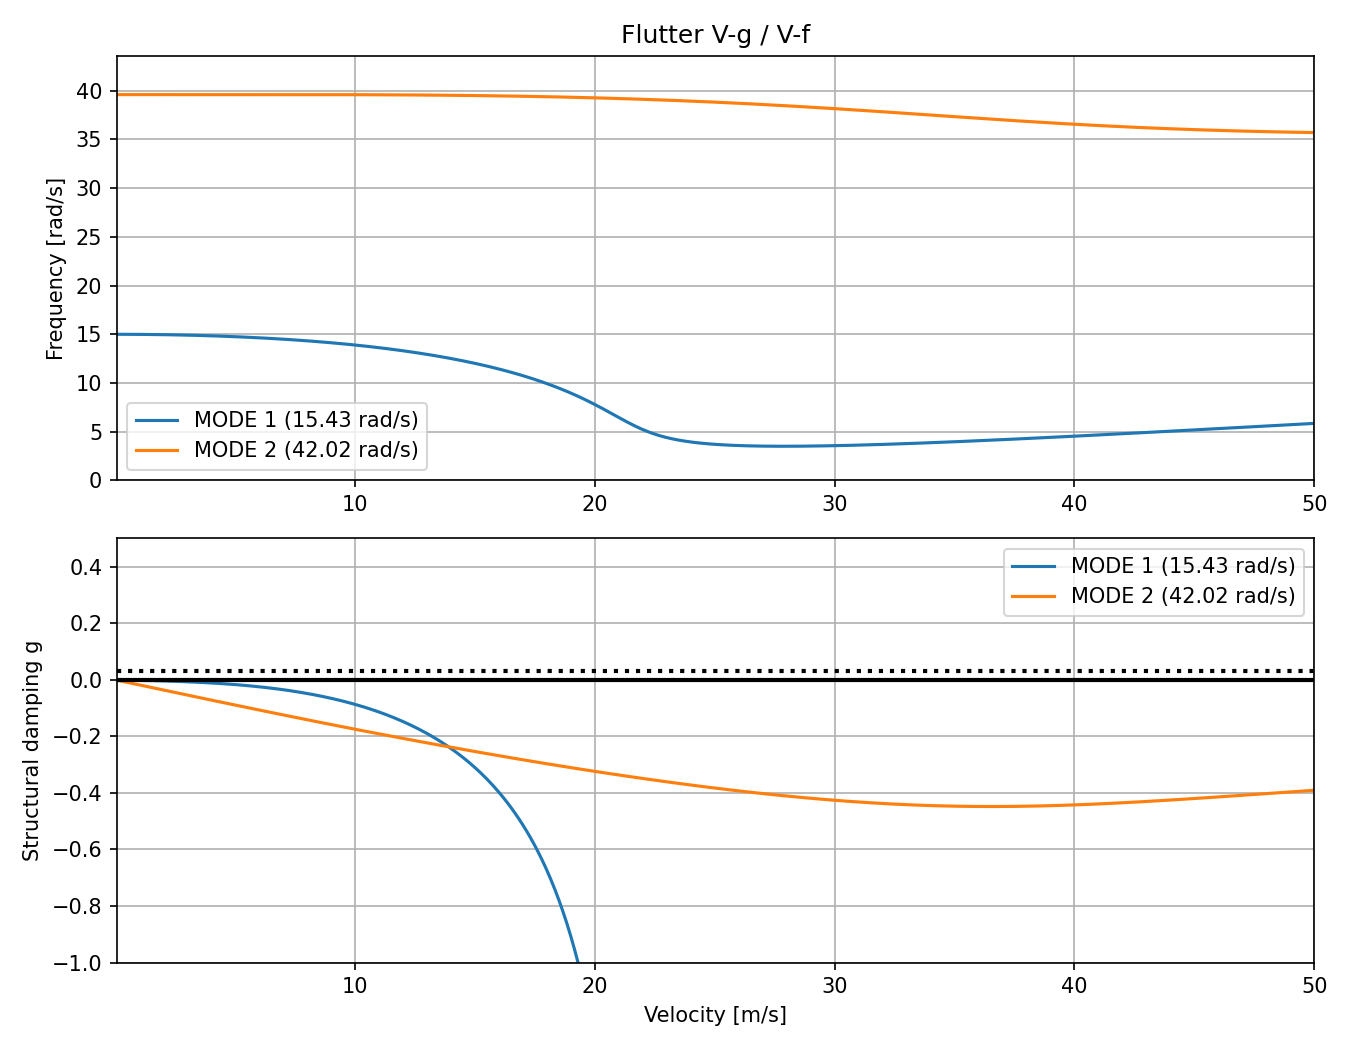
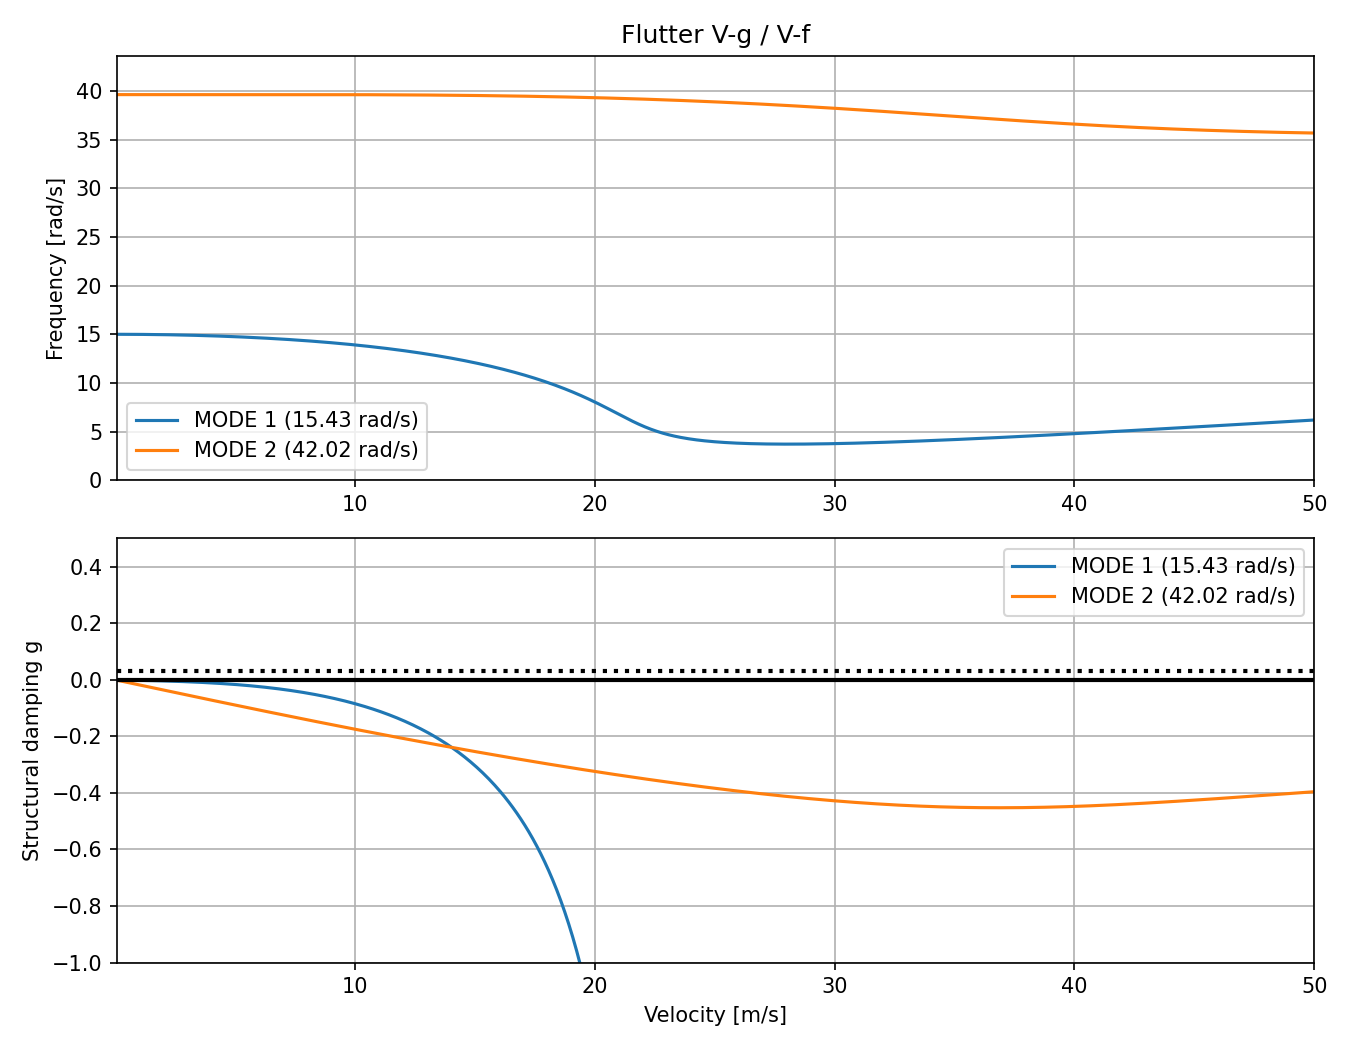
Use R. T. Jones C(k) coefficients 0.0455 / 0.300 (#9)
theo_c used poles at 0.041 / 0.32, a worse fit to the exact Theodorsen
function (max |dC| 0.021 vs 0.0145) that put the flutter speed 0.9-1.4 %
low. With the NACA 681 values the Hodges & Pierce case gives
V_F/(b w_a) = 2.1704 (exact C(k): 2.1839) and the shipped defaults
19.558 m/s (exact: 19.575).

Regression values, README, theory document and figures updated.

Closes #9

diff --git a/tests/test_flutter.py b/tests/test_flutter.py
@@ -127,7 +127,7 @@ def test_compute_flutter_keeps_modes_distinct():
 
 
 def test_compute_flutter_detects_flutter_speed():
-    """TUI default section: flutter at 19.3934 m/s, from an independent k-method (g = 0) solve."""
+    """TUI default section: flutter at 19.5582 m/s, from an independent k-method (g = 0) solve."""
     mass_kg = 10.0
     inertia_alpha_kg_m2 = 0.5
     b_m = 0.5
@@ -144,7 +144,7 @@ def test_compute_flutter_detects_flutter_speed():
     v1, v2 = velocity_range_m_s[j], velocity_range_m_s[j + 1]
     g1, g2 = g_arr_nd[1, j], g_arr_nd[1, j + 1]
     v_flutter_m_s = v1 - g1 * (v2 - v1) / (g2 - g1)
-    np.testing.assert_allclose(v_flutter_m_s, 19.3934, rtol=1e-4)
+    np.testing.assert_allclose(v_flutter_m_s, 19.5582, rtol=1e-4)
 
 
 def test_find_flutter_speed_interpolates_between_grid_points():
@@ -174,9 +174,9 @@ def test_compute_flutter_hodges_pierce_textbook_case():
     Aeroelasticity, ch. 5): a = -1/5, e = -1/10 (x_a = 1/10), mu = 20, r^2 = 6/25,
     sigma = w_h / w_a = 2/5. Non-dimensionalised with b = 1 m, w_a = 1 rad/s, rho = 1 kg/m3.
 
-    With the Jones approximation of C(k) the flutter point is V_F / (b w_a) = 2.15363,
-    w_F / w_a = 0.6497, confirmed by an independent k-method (g = 0) solve. With exact
-    Theodorsen the same solve gives 2.184, consistent with the book's ~2.2; the 1.4 %
+    With the R. T. Jones approximation of C(k) the flutter point is V_F / (b w_a) = 2.17036,
+    w_F / w_a = 0.6443, confirmed by an independent k-method (g = 0) solve. With exact
+    Theodorsen the same solve gives 2.184, consistent with the book's ~2.2; the 0.6 %
     difference is the Jones approximation.
     """
     b_m = 1.0
@@ -197,8 +197,8 @@ def test_compute_flutter_hodges_pierce_textbook_case():
 
     assert find_flutter_speed(p_arr[0], velocity_range_m_s, b_m) is None
     v_flutter_m_s, omega_flutter_rad_s = find_flutter_speed(p_arr[1], velocity_range_m_s, b_m)
-    np.testing.assert_allclose(v_flutter_m_s / (b_m * omega_alpha_rad_s), 2.15363, rtol=1e-4)
-    np.testing.assert_allclose(omega_flutter_rad_s / omega_alpha_rad_s, 0.6497, rtol=1e-3)
+    np.testing.assert_allclose(v_flutter_m_s / (b_m * omega_alpha_rad_s), 2.17036, rtol=1e-4)
+    np.testing.assert_allclose(omega_flutter_rad_s / omega_alpha_rad_s, 0.6443, rtol=1e-3)
 
 
 def test_damping_g_nd_is_twice_decay_rate_ratio():

diff --git a/analysis/flutter.py b/analysis/flutter.py
@@ -5,10 +5,17 @@ from __future__ import annotations
 import numpy as np
 from numpy.typing import NDArray
 
+# R. T. Jones two-pole fit of C(k) (NACA Report 681): C = 1 - sum(A_i k / (k - i B_i)).
+_JONES_A_ND = (0.165, 0.335)
+_JONES_B_ND = (0.0455, 0.300)
+
 
 def theo_c(k_nd: float) -> complex:
     """
-    Theodorsen aerodynamic transfer function (Jones two-pole approximation).
+    Theodorsen aerodynamic transfer function (R. T. Jones two-pole approximation).
+
+    C(k) ~ 1 - 0.165 / (1 - 0.0455 i / k) - 0.335 / (1 - 0.300 i / k); largest error against
+    the exact function is |dC| = 0.0145 for k <= 2.
 
     Parameters
     ----------
@@ -20,7 +27,7 @@ def theo_c(k_nd: float) -> complex:
     complex
         Theodorsen function C(k).
     """
-    return 1 - 0.165 / (1 - 0.041 / k_nd * 1j) - 0.335 / (1 - 0.32 / k_nd * 1j)
+    return 1 - sum(a / (1 - b / k_nd * 1j) for a, b in zip(_JONES_A_ND, _JONES_B_ND))
 
 
 def build_aero_matrix(

diff --git a/docs/theory_pk_flutter.md b/docs/theory_pk_flutter.md
@@ -125,27 +125,27 @@ $$
 C(k) = F(k) + iG(k) = \frac{H_1^{(2)}(k)}{H_1^{(2)}(k) + i H_0^{(2)}(k)},
 $$
 
-with `C → 1` as `k → 0` (quasi-steady) and `C → ½` as `k → ∞`. The code (`theo_c`) uses a
-two-pole rational approximation of the Jones type:
+with `C → 1` as `k → 0` (quasi-steady) and `C → ½` as `k → ∞`. The code (`theo_c`) uses
+R. T. Jones' two-pole rational approximation (NACA Report 681, from his fit to the Wagner
+function):
 
 $$
-C(k) \approx 1 - \frac{0.165}{1 - 0.041\,i/k} - \frac{0.335}{1 - 0.32\,i/k}.
+C(k) \approx 1 - \frac{0.165}{1 - 0.0455\,i/k} - \frac{0.335}{1 - 0.300\,i/k}.
 $$
 
 ![Theodorsen function, exact vs Jones](figures/theodorsen_jones_vs_exact.png)
 
-The largest error against the exact function is `|ΔC| = 0.021`, near `k = 0.18`. The
-coefficients more commonly quoted (R. T. Jones, from his Wagner-function fit) are `0.0455`
-and `0.300` instead of `0.041` and `0.32`. They fit better (largest `|ΔC| = 0.0145`) and
-change the flutter speed noticeably:
+The largest error against the exact function is `|ΔC| = 0.0145` for `k ≤ 2`. Until
+issue #9 the code used `0.041` and `0.32` in place of `0.0455` and `0.300`; that fit is worse
+(largest `|ΔC| = 0.021`, near `k = 0.18`) and made the flutter speed noticeably low:
 
-| Case | Code's Jones | R. T. Jones | Exact Theodorsen |
+| Case | Old `0.041 / 0.32` | R. T. Jones (code) | Exact Theodorsen |
 |---|---|---|---|
 | Hodges & Pierce, `V_F/(bω_α)` | 2.1536 | 2.1704 | 2.1839 |
 | Shipped defaults, `V_F` [m/s] | 19.393 | 19.558 | 19.575 |
 
-So most of the gap between this tool and exact theory comes from the choice of
-coefficients, not from the two-pole form itself (see section 9).
+So most of the gap between a two-pole fit and exact theory comes from the choice of
+coefficients, not from the two-pole form itself.
 
 ---
 
@@ -325,16 +325,16 @@ An independent **k-method** solver, written directly from Theodorsen's `L` and `
 
 | Case | p-k `V_F` | p-k `ω_F` | k-method `V_F` | k-method `ω_F` | Exact `C(k)` `V_F` |
 |---|---|---|---|---|---|
-| Hodges & Pierce (`V_F/bω_α`, `ω_F/ω_α`) | 2.15363 | 0.64971 | 2.15363 | 0.64970 | 2.18389 |
-| Shipped defaults (m/s, rad/s) | 19.39338 | 16.09687 | 19.39336 | 16.09686 | 19.57463 |
+| Hodges & Pierce (`V_F/bω_α`, `ω_F/ω_α`) | 2.17036 | 0.64433 | 2.17036 | 0.64433 | 2.18389 |
+| Shipped defaults (m/s, rad/s) | 19.55820 | 16.01076 | 19.55813 | 16.01074 | 19.57463 |
 | `data/inputs/default.json` | none | | none | | none |
 
 The Hodges & Pierce section (*Introduction to Structural Dynamics and Aeroelasticity*,
 ch. 5) has `a = −1/5`, `x_α = 1/10`, `μ = 20`, `r_α² = 6/25`, `σ = 2/5`. The shipped
 defaults are those of `defaults/default_flutter.json`. p-k and k-method agree to 5–6
-significant figures. With the exact Theodorsen function the flutter speed is 1.4 % (Hodges &
-Pierce) and 0.9 % (shipped defaults) higher, which is the cost of the code's Jones
-coefficients (section 3).
+significant figures. With the exact Theodorsen function the flutter speed is 0.6 % (Hodges &
+Pierce) and 0.1 % (shipped defaults) higher, which is the cost of the Jones approximation
+(section 3).
 
 ![V-g / V-f, Hodges & Pierce](figures/vg_hodges_pierce.png)
 
@@ -364,9 +364,9 @@ With the CG ahead of the EA (`x_α < 0`) the section does not flutter in the ran
 
 ## 9. Limitations and possible extensions
 
-- **Jones coefficients.** The code's `0.041 / 0.32` make the flutter speed 0.9–1.4 % low
-  in the verified cases. The R. T. Jones values `0.0455 / 0.300` reduce this to 0.1–0.6 %.
-  Changing them would change the regression values in the tests.
+- **Jones approximation.** The two-pole `C(k)` makes the flutter speed 0.1–0.6 % low in
+  the verified cases. The exact Theodorsen function (Hankel functions) would remove this
+  but needs Bessel functions the code does not otherwise depend on.
 - **Incompressible, thin-airfoil aerodynamics.** No Mach effects; no thickness, camber or
   viscous effects; no stall.
 - **No structural damping input.** `g` is an output; a damping margin is read off the plot

diff --git a/README.md b/README.md
@@ -75,7 +75,7 @@ The interactive prompts are pre-filled from `defaults/default_flutter.json` (sam
 input file, plus the solver settings `k_tol_nd` and `max_iter_nd`); `pi_nd` comes from
 `defaults/constants.json`. Edit those files to change the defaults; both are bundled into the
 executable. The shipped defaults (`a = -0.2`, `x_a = 0.1`, `omega_h = 10`, `omega_a = 25`
-rad/s, 10 kg, 0.5 kg m2, 1-100 m/s) flutter at 19.39 m/s.
+rad/s, 10 kg, 0.5 kg m2, 1-100 m/s) flutter at 19.56 m/s.
 
 ## Output
 
@@ -98,8 +98,8 @@ For each mode and speed V the p-k equation
 
 is solved by fixed-point iteration on k: with k fixed it is a 2x2 eigenproblem in p; the
 root nearest the mode's current estimate is kept and k is updated until it converges.
-`A(k)` is Theodorsen's oscillatory aerodynamics with the Jones two-pole approximation of
-`C(k)`. Modes are seeded from the coupled structural frequencies and extrapolated from speed
+`A(k)` is Theodorsen's oscillatory aerodynamics with R. T. Jones' two-pole approximation of
+`C(k)` (NACA Report 681: poles at `k = 0.0455` and `0.300`). Modes are seeded from the coupled structural frequencies and extrapolated from speed
 to speed so each mode keeps its identity.
 
 Damping is the equivalent structural damping `g = 2 real(p) / imag(p)` (twice the decay-rate
@@ -119,9 +119,9 @@ Full derivation, the old and new solvers, and verification: [docs/theory_pk_flut
 
 The textbook section of Hodges & Pierce, *Introduction to Structural Dynamics and
 Aeroelasticity*, ch. 5 (`a = -1/5`, `x_a = 1/10`, `mu = 20`, `r^2 = 6/25`,
-`omega_h / omega_a = 2/5`) is a regression test: `V_F / (b omega_a) = 2.1536`,
-`omega_F / omega_a = 0.650`. An independent k-method solve gives the same values; with the
-exact Theodorsen function it gives 2.184, so the Jones approximation costs about 1.4 %.
+`omega_h / omega_a = 2/5`) is a regression test: `V_F / (b omega_a) = 2.1704`,
+`omega_F / omega_a = 0.644`. An independent k-method solve gives the same values; with the
+exact Theodorsen function it gives 2.184, so the Jones approximation costs about 0.6 %.
 
 ## Tests
 
